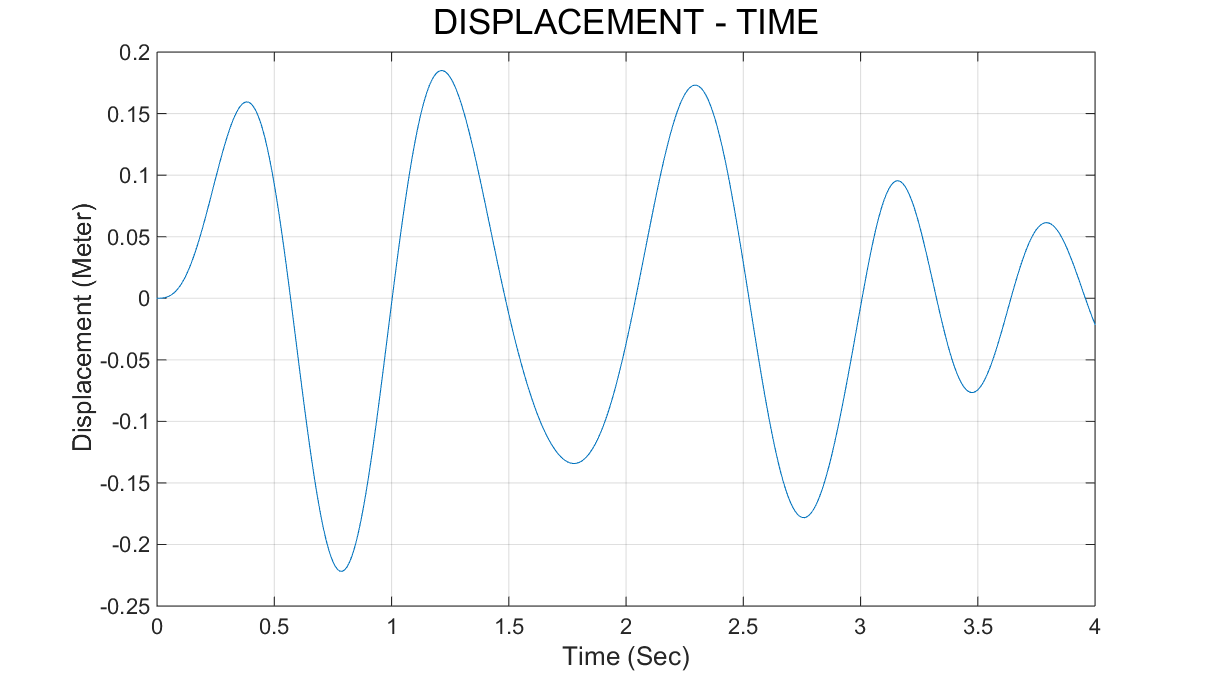
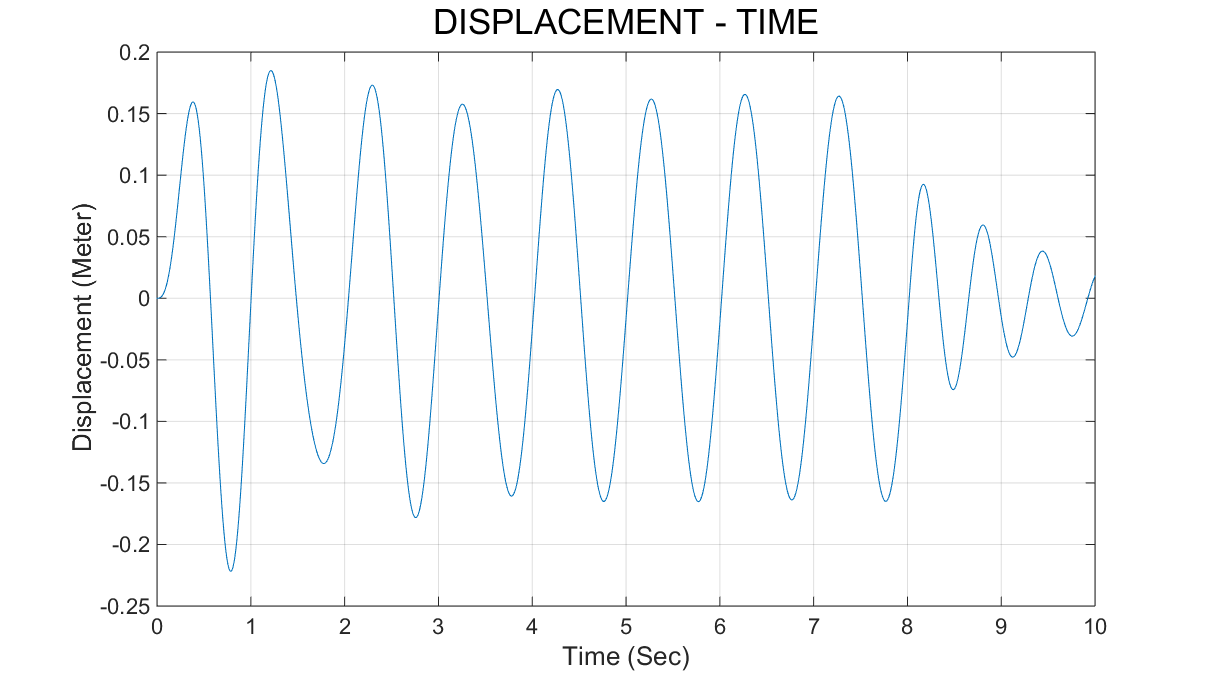
update

diff --git a/archive-20161119/README.md b/archive-20161119/README.md
@@ -1,5 +1,5 @@
 # 振动力学程序作业-20161119
-# 
+
 **0. 计算模型**
 
 **1. 使用杜哈梅积分计算任意非周期激励的响应**
@@ -13,16 +13,22 @@
 **附.Code-MATLAB**
 
 ## Student Info
+
 - 姓名：徐远方
 - 学号：
 
 ## 0. 计算模型
+
 ### 水塔受非周期水平激励力，由激励力函数F.m给定。
- <img src="img/water_tower.png" width = "217" height = "400" align=center />
+
+ <img src="img/water_tower.png" width = "228" height = "420" align=center />
 
 ## 1. 使用杜哈梅积分计算任意非周期激励的响应
+
 ## 1.1 水塔受脉冲激励的算例
+
 ### 参数
+
 ------
 | k (N/m) | m (kg) | c (N*s/m) | t (s) | delta_t (s) | x0 (m) | v0 (m/s)
 | :------- | :-------| :-------| :-------| :------- | :-------| :-------|
@@ -30,8 +36,9 @@
 ------
 
 ### Figure
+
 <center>
-![figure1](img/force0.png)
+![figure1](img/exciting_force0.png)
 
 
 ![figure2](img/displacement0.png)
@@ -46,15 +53,18 @@
 </center>
 
 ## 1.2 水塔受正弦激励的算例
+
 ### 参数
+
 ------
 | k (N/m) | m (kg) | c (N*s/m) | t (s) | delta_t (s) | x0 (m) | v0 (m/s)
 | :------- | :-------| :-------| :-------| :------- | :-------| :-------|
-| 2953.5 | 30 | 41.67 | 4 | 0.01 | 0 | 0 |
+| 2953.5 | 30 | 41.67 | 10 | 0.01 | 0 | 0 |
 
 ### Figure
+
 <center>
-![figure1](img/force1.png)
+![figure1](img/exciting_force1.png)
 
 
 ![figure2](img/displacement1.png)
@@ -70,14 +80,20 @@
 
 ## 2.结论
 
-以上两个算例的各个参数均参考pdf文件（duhamel-newcivil.pdf）的参数给出，计算结果绘出的图像与pdf文件中的吻合。由于本程序中速度、加速度项是通过差分法计算的，所以在时间步长较小时，它们的数值误差可能会比较大。
+以上两个算例的各个参数均参考pdf文件（duhamel-newcivil.pdf）的参数给出，计算结果绘出的图像与pdf文件中的相吻合。由于本程序中速度、加速度项是通过差分法计算的，所以当时间步长较小时，它们的数值误差可能会比较大。
+
+对于算例1.1，在零初始条件下，外部施加一个持续时间较短的脉冲激励，水塔相应地产生强迫振动（当然，同时也有自由振动相伴发生，但是因为自由振动的响应本来就不大，又脉冲激励时间较短，所以它对整个系统的振动影响较小，在各项响应指标的图中都没有明显的体现）。0.06秒之后水塔在无激励的条件下自由振动，在阻尼的持续作用下，直至停止响应。
+
+对于算例1.2，在零初始条件下，外部施加持续8秒的正弦激励，水塔因此产生受迫振动和自由振动，观察图中的曲线，不难发现，在前3秒的时间内，水塔的各项响应指标都是不太稳定的，这一现象是因为在发生受迫振动的同时受到了自由振动的影响而产生的。在3秒之后8秒之前的时间内，水塔的各项响应指标是趋于稳定的，同时也是和正弦激励相互对应的，这是因为在阻尼的持续作用下，相伴发生的自由振动逐渐衰减，进而消失，最终整个系统为稳态响应，也就是只存在受迫振动。8秒之后水塔在无激励的条件下自由振动，在阻尼的持续作用下，直至停止响应。
 
 ###### 备注
-###### 在pdf文件（duhamel-newcivil.pdf）的Example 2算例中，重力加速度应为9.81(m/s^2)，而原文写成了981(m/s^2)，致使其计算结果大了100倍。另外由于速度、加速度项的计算方法选取的不同，除去原文作者错误结果的100倍的影响后，本程序计算结果与其还是存在较小的差异，但是误差在可以接受的范围内。
+
+###### 在pdf文件（duhamel-newcivil.pdf）的Example 2算例中，原文重力加速度记为981(cm/s^2)，而在本文中记为9.81(m/s^2)，致使原文的计算结果的数值为本文的100倍。另外由于速度、加速度项选取的计算方法不同，除去原文作者结果的100倍的影响后，本程序计算结果与原文存在极小的差异，但是误差在可以接受的范围内，所以可以认为计算结果是相吻合的。
 
 ------
 ## 附: Code-MATLAB
-### Main Program (Acyclic.m)
+
+### Main Program (Cal4Non-periodic_excitation.m)
     % @author: xuyuanfang
     clear 
     clc
@@ -86,7 +102,7 @@
     c = 316.2;  % 算例1.1 316.2 算例1.2 41.67
     k = 1e5;    % 算例1.1 1e5 算例1.2 2953.5
     m = 100;    % 算例1.1 100 算例1.2 30
-    t = 1;      % 算例1.1 1 算例1.2 4
+    t = 1;      % 算例1.1 1 算例1.2 10
     delta_t = 0.005;    % 算例1.1 0.005 算例1.2 0.01
     div_num = t/delta_t;
     x0 = 0;
@@ -159,6 +175,7 @@
     toc
 
 ### Subprogram (Duhamel.m)
+
     % @author: xuyuanfang
     function D = Duhamel(a, b, t, c, k, m, precision)
         %Simpson
@@ -184,6 +201,7 @@
     end
 
 ### Subprogram (F.m)
+
     % @author: xuyuanfang
     function F = F(t)
         % 脉冲激励时的激励函数
@@ -199,14 +217,16 @@
     end
 
     % 下为正弦激励时的激励函数
-    % if t <= 3
+    % if t <= 8
     % F = 30*9.81*sin(2*pi*t);
     % else
     % F = 0;
     % end
 
 ----
-###### 本文由Markdown编排，图片使用的png格式，图片清晰度不及LaTex使用的pdf图片格式，故将此次作业的电子版二维码置于下方。
+
+###### 本文由Markdown编排，图片使用的png格式，图片清晰度不及LaTex使用的pdf图片格式，故将此次作业的电子版二维码置于下方，以便查阅。
+
 <center>
  <img src="img/github.png" width = "200" height = "200" alt="" />
 </center>
